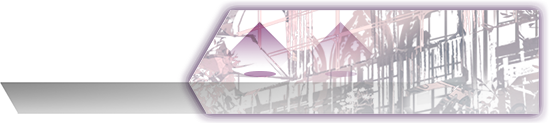
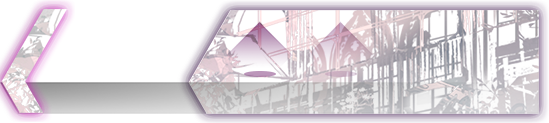
maybe is success?

Changed region(s): [[0.0, 0.0, 0.1548, 1.0]]

diff --git a/Game/Selector/MusicBarObject.cpp b/Game/Selector/MusicBarObject.cpp
@@ -1,0 +1,74 @@
+#include "MusicBarObject.hpp"
+#include "../SceneManager.hpp"
+#include "../../Astrum/Singletons/AstrumFramework.hpp"
+
+Selector::MusicBarObject::MusicBarObject(const std::unique_ptr<Arcaea::MusicData>& music)
+	: musicData(*music) {
+	AddObject(thumbnailObject = AstrumMaterialObject::MakeShared(
+		AstrumMaterial::MakeShared(music->GetThumbnailTexture())
+	));
+	thumbnailObject->SetTextureMesh(thumbnailObject->GetMaterial()->CreateCustomSizeMeshFromRatio(0, 0.3f, 1, 0.7f));
+	thumbnailObject->SetPositionZ(0.5f);
+
+	AddObject(backgroundObject = AstrumMaterialObject::MakeShared(
+		barMaterial,
+		barMaterial->CreateTextureSizeMesh()
+	));
+	backgroundObject->SetPositionZ(0);
+	backgroundObject->AddComponent(backgroundAABB);
+
+	AddObject(titleObject = AstrumTextObject::MakeShared(
+		music->GetName(),
+		AstrumFontsCache::Load(L"Outfit-Regular.ttf")->GetFont(music->GetName(), MusicBarTitleObjectFontSize)
+	));
+	titleObject->SetAlignment(AstrumTextHorizontalAlignmentType_Left, AstrumTextVerticalAlignmentType_Top);
+	titleObject->SetPositionZ(-0.5f);
+	titleObject->SetColor(AstrumColor::White);
+
+	const float thumbnailScale = static_cast<float>(backgroundObject->GetTextureHeight()) / static_cast<float>(thumbnailObject->GetTextureHeight() * 0.4) * MusicBarObjectClickableBackgroundAreaScale;
+	thumbnailObject->SetScale({ thumbnailScale, thumbnailScale, 1.f });
+	thumbnailObject->SetPositionX(static_cast<float>(-0.5 * backgroundObject->GetTextureWidth() + 0.5 * thumbnailObject->GetTextureWidth() * thumbnailScale));
+
+	titleObject->SetPositionY(static_cast<float>(-0.5 * backgroundObject->GetTextureHeight() + 0.75 * MusicBarTitleObjectFontSize));
+	titleObject->SetPositionX(static_cast<float>(-0.5 * backgroundObject->GetTextureWidth() + 0.6 * titleObject->GetLayoutWidth()));
+
+	backgroundAABB->GetRectFunction = [this]() {
+		AstrumVector2 leftTop{ static_cast<float>(backgroundObject->GetTextureWidth()), static_cast<float>(backgroundObject->GetTextureHeight()) };
+		leftTop *= -0.5f;
+		leftTop *= MusicBarObjectClickableBackgroundAreaScale;
+		AstrumVector2 rightBottom = leftTop * -1.f;
+
+		leftTop.X += this->GetAbsolutePosition().X;
+		leftTop.Y += this->GetAbsolutePosition().Y;
+
+		rightBottom.X += this->GetAbsolutePosition().X;
+		rightBottom.Y += this->GetAbsolutePosition().Y;
+
+		return AstrumRect(leftTop, rightBottom);
+	};
+}
+
+void Selector::MusicBarObject::Update()
+{
+	if (AstrumRawInput::IsMouseClickNow() && backgroundAABB->IsOverlapToMousePointer()) {
+		if (this == DataManager::Instance().CurrentSelectedMusicBar) {
+			InGame::DataManager::Instance().CurrentMusic = &musicData;
+			Game::SceneManager::LoadingScene->LoadScene([](auto*) {
+				const auto& root = AstrumFramework::GetRootObject();
+				root->AddObject(std::make_shared<InGame::SceneObject>());
+				root->RemoveObject(Game::SceneManager::SelectorScene->shared_from_this());
+			});
+		}
+		else DataManager::Instance().CurrentSelectedMusicBar = this;
+	}
+
+	// Update material by selected state.
+	if (this == DataManager::Instance().CurrentSelectedMusicBar) {
+		if (backgroundObject->GetMaterial() != barSelectedMaterial) backgroundObject->SetMaterial(barSelectedMaterial);
+	}
+	else {
+		if (backgroundObject->GetMaterial() != barMaterial) backgroundObject->SetMaterial(barMaterial);
+	}
+
+	AstrumGroupObject::Update();
+}

diff --git a/Game/Selector/MusicBarObject.hpp b/Game/Selector/MusicBarObject.hpp
@@ -16,64 +16,9 @@ namespace Selector
 
 	class MusicBarObject : public AstrumGroupObject {
 	public:
-		MusicBarObject(const std::unique_ptr<Arcaea::MusicData>& music) : musicData(*music) {
-			AddObject(thumbnailObject = AstrumMaterialObject::MakeShared(
-				AstrumMaterial::MakeShared(music->GetThumbnailTexture())
-			));
-			thumbnailObject->SetTextureMesh(thumbnailObject->GetMaterial()->CreateCustomSizeMeshFromRatio(0, 0.3f, 1, 0.7f));
-			thumbnailObject->SetPositionZ(0.5f);
+		MusicBarObject(const std::unique_ptr<Arcaea::MusicData>& music);
 
-			AddObject(backgroundObject = AstrumMaterialObject::MakeShared(
-				barMaterial,
-				barMaterial->CreateTextureSizeMesh()
-			));
-			backgroundObject->SetPositionZ(0);
-			backgroundObject->AddComponent(backgroundAABB);
-
-			AddObject(titleObject = AstrumTextObject::MakeShared(
-				music->GetName(),
-				AstrumFontsCache::Load(L"Outfit-Regular.ttf")->GetFont(music->GetName(), MusicBarTitleObjectFontSize)
-			));
-			titleObject->SetAlignment(AstrumTextHorizontalAlignmentType_Left, AstrumTextVerticalAlignmentType_Top);
-			titleObject->SetPositionZ(-0.5f);
-			titleObject->SetColor(AstrumColor::White);
-
-			const float thumbnailScale = static_cast<float>(backgroundObject->GetTextureHeight()) / static_cast<float>(thumbnailObject->GetTextureHeight() * 0.4) * MusicBarObjectClickableBackgroundAreaScale;
-			thumbnailObject->SetScale({ thumbnailScale, thumbnailScale, 1.f });
-			thumbnailObject->SetPositionX(static_cast<float>(-0.5 * backgroundObject->GetTextureWidth() + 0.5 * thumbnailObject->GetTextureWidth() * thumbnailScale));
-
-			titleObject->SetPositionY(static_cast<float>(-0.5 * backgroundObject->GetTextureHeight() + 0.75 * MusicBarTitleObjectFontSize));
-			titleObject->SetPositionX(static_cast<float>(-0.5 * backgroundObject->GetTextureWidth() + 0.6 * titleObject->GetLayoutWidth()));
-
-			backgroundAABB->GetRectFunction = [this]() {
-				AstrumVector2 leftTop{ static_cast<float>(backgroundObject->GetTextureWidth()), static_cast<float>(backgroundObject->GetTextureHeight()) };
-				leftTop *= -0.5f;
-				leftTop *= MusicBarObjectClickableBackgroundAreaScale;
-				AstrumVector2 rightBottom = leftTop * -1.f;
-
-				leftTop.X += this->GetAbsolutePosition().X;
-				leftTop.Y += this->GetAbsolutePosition().Y;
-
-				rightBottom.X += this->GetAbsolutePosition().X;
-				rightBottom.Y += this->GetAbsolutePosition().Y;
-
-				return AstrumRect(leftTop,rightBottom);
-			};
-		}
-
-		virtual void Update() override {
-			if (AstrumRawInput::IsMouseClickNow()) {
-				if (backgroundAABB->IsOverlapToMousePointer()) {
-					DataManager::Instance().CurrentSelectedMusicBar = this;
-					std::wcout << L"Selected music: " << musicData.GetName() << std::endl;
-				}
-			}
-			//if (AstrumRawInput::IsMouseClickNow() && backgroundAABB->IsOverlapToMousePointer()) {
-			//	DataManager::Instance().CurrentSelectedMusicBar = this;
-			//}
-
-			AstrumGroupObject::Update();
-		}
+		virtual void Update() override;
 
 		const Arcaea::MusicData* GetMusicData() { return &musicData; }
 	private:

diff --git a/Game/InGame/PlayFieldObject.hpp b/Game/InGame/PlayFieldObject.hpp
@@ -18,11 +18,44 @@ namespace InGame {
 			AddObject(noteViewModelObject = std::make_shared<NoteViewModelObject>());
 			noteViewModelObject->SetPositionZ(-1);
 
-			SetCustomShaderPipeline(DataManager::Instance().GetIllusionShader());
+			//SetCustomShaderPipeline(DataManager::Instance().GetIllusionShader());
+			
+			const auto [halfWidth, halfHeight] = AstrumRenderer::Instance().GetHalfResolution();
+			constexpr float Left = NoteWidth * -2.f;
+			constexpr float Right = NoteWidth * 2.f;
+			constexpr float ShrinkScale = 0.25f;
+			constexpr float MinusCeilingY = 100.f;
+			constexpr int n = 1000;
+
+			std::vector<AstrumTextureVertex> vertices;
+			vertices.reserve(static_cast<int>(n + 1) * 2);
+			for (int i = 0; i <= n; i++) {
+				const float percent = i / static_cast<float>(n);
+				vertices.emplace_back(AstrumVector3{ std::lerp(Left * ShrinkScale, Right * ShrinkScale, percent), static_cast<float>(halfHeight) - MinusCeilingY, 0 }, AstrumVector2{ percent, 0 });
+			}
+			for (int i = 0; i <= n; i++) {
+				const float percent = i / static_cast<float>(n);
+				vertices.emplace_back(AstrumVector3{ static_cast<float>(std::lerp(-halfWidth, halfWidth, percent)), -static_cast<float>(halfHeight), 0 }, AstrumVector2{ percent, 1 });
+			}
+
+			std::vector<unsigned short> indices;
+			indices.reserve((n+1) * 6);
+			for (unsigned short i = 0; i < n; i++) {
+				indices.push_back(i + 1);
+				indices.push_back(i + n + 1);
+				indices.push_back(i);
+
+				indices.push_back(i + n + 2);
+				indices.push_back(i + n + 1);
+				indices.push_back(i + 1);
+			}
+
+			SetMaterialMesh(customMesh = AstrumTextureMesh::MakeShared(vertices, indices));
 		}
 
 	private:
 		std::shared_ptr<NoteBoardObject> boardObject = nullptr;
 		std::shared_ptr<NoteViewModelObject> noteViewModelObject = nullptr;
+		std::shared_ptr<AstrumTextureMesh> customMesh = nullptr;
 	};
 }

diff --git a/Game/Arcaea/ArcaeaChartManager.hpp b/Game/Arcaea/ArcaeaChartManager.hpp
@@ -1,6 +1,7 @@
 #pragma once
 #include <iostream>
 #include "ArcaeaChartParser.hpp"
+#include "ArcaeaMusicData.hpp"
 #include "../../Astrum/Singletons/AstrumSingleton.hpp"
 #include "../../Astrum/Singletons/AstrumChrono.hpp"
 #include "../../Astrum/Resources/AstrumSound.hpp"
@@ -24,6 +25,14 @@ namespace Arcaea {
 		void Setup(const std::filesystem::path& filePath) {
 			Arcaea::ChartParser parser(filePath);
 			chart = parser.ToParse();
+			FillQueue();
+			nextNoteIndex = 0;
+		}
+		void Setup(const MusicData* data, int level = 0) {
+			if (1 == level) chart = std::move(*data->GetPresentChart());
+			else if (2 == level) chart = std::move(*data->GetFutureChart());
+			else chart = std::move(*data->GetPastChart());
+
 			FillQueue();
 			nextNoteIndex = 0;
 		}

diff --git a/Game/Selector/CurrentSelectedObject.cpp b/Game/Selector/CurrentSelectedObject.cpp
@@ -1,0 +1,22 @@
+#include "CurrentSelectedObject.hpp"
+#include "../../Astrum/Singletons/AstrumTextureCache.hpp"
+#include "MusicBarObject.hpp"
+
+namespace Selector {
+	CurrentSelectedObject::CurrentSelectedObject()
+		: AstrumMaterialObject(AstrumTextureCache::Load("songselect/song_cell_selected_piece.png")) {
+
+	}
+
+	void CurrentSelectedObject::Update() {
+		if (MusicBarObject* musicBar = DataManager::Instance().CurrentSelectedMusicBar) {
+			SetVisible(true);
+			SetPositionY(musicBar->GetAbsolutePosition().Y);
+		}
+		else {
+			SetVisible(false);
+		}
+
+		AstrumMaterialObject::Update();
+	}
+}

diff --git a/Game/InGame/DataManager.hpp b/Game/InGame/DataManager.hpp
@@ -1,4 +1,5 @@
 #pragma once
+#include "../Arcaea/ArcaeaMusicData.hpp"
 #include "../../Astrum/Shaders/AstrumShaderSetup.hpp"
 #include "../../Astrum/Components/AstrumConstantBufferComponent.hpp"
 #include "../../Astrum/Objects/IAstrumObject.hpp"
@@ -35,6 +36,7 @@ namespace InGame {
 			}, sizeof(AstrumVector4));
 		}
 
+		const Arcaea::MusicData* CurrentMusic = nullptr;
 	private:
 		std::shared_ptr<AstrumShaderSetup> shader = nullptr;
 	};

diff --git a/Game/InGame/ViewModels/NoteViewModelObject.hpp b/Game/InGame/ViewModels/NoteViewModelObject.hpp
@@ -14,7 +14,9 @@ namespace InGame {
 	{
 	public:
 		NoteViewModelObject() {
-			Arcaea::ChartManager::Instance().Setup(L"./Game/Assets/songs/goodtek/2.aff");
+			Arcaea::ChartManager::Instance().Setup(
+				DataManager::Instance().CurrentMusic, 2
+			);
 
 			SetPositionZ(10);
 

diff --git a/Game/Selector/CurrentSelectedObject.hpp b/Game/Selector/CurrentSelectedObject.hpp
@@ -1,0 +1,10 @@
+#include "DataManager.hpp"
+#include "../../Astrum/Objects/AstrumMaterialObject.hpp"
+
+namespace Selector {
+	class CurrentSelectedObject : public AstrumMaterialObject {
+	public:
+		CurrentSelectedObject();
+		virtual void Update() override;
+	};
+}
